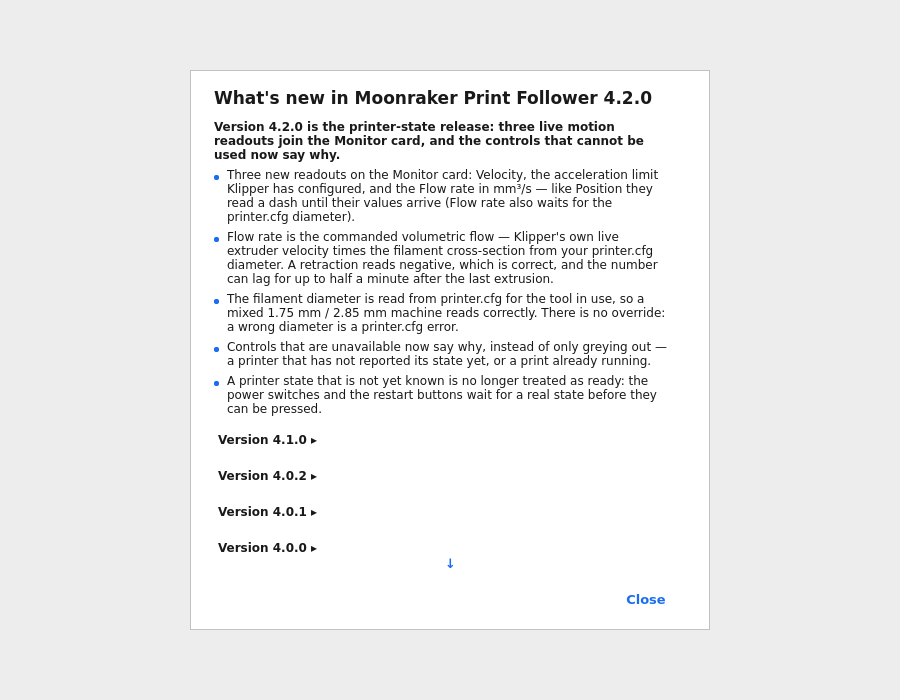
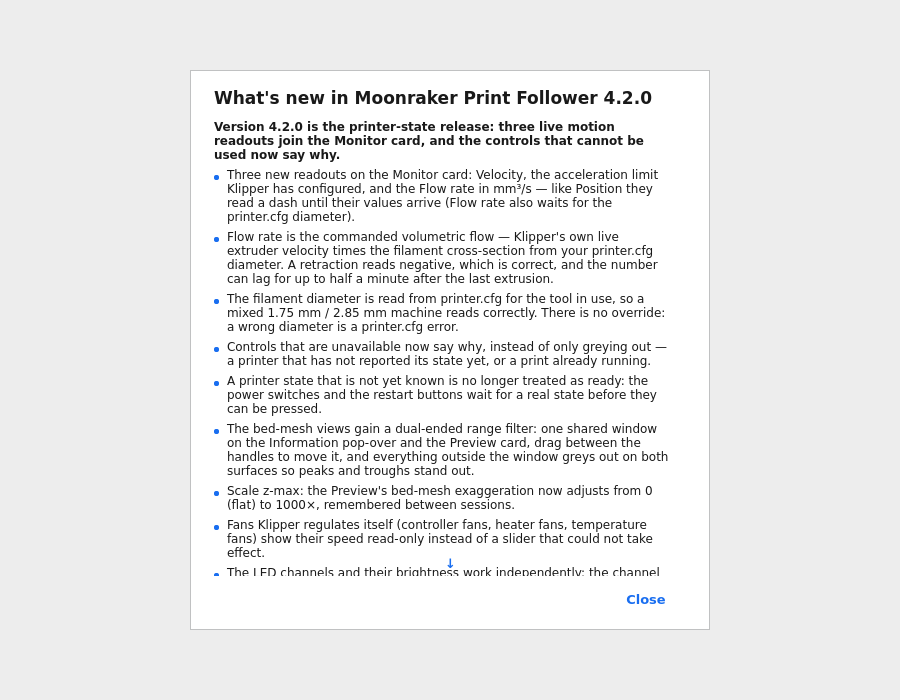
4.2.0 ship docs: the snapshot-round features in the changelog, README and what's-new, and the regenerated captures
The live-verdict rounds' features (the range filter, scale z-max, the
clamped visuals, the read-only firmware fans, the independent LED
channels and gain, the eager first connection, the consolidated
slider behaviours) join the release notes in all three surfaces, and
the canonical captures are regenerated against the final UI.

Changed region(s): [[0.2489, 0.6, 0.7467, 0.84]]

diff --git a/plugins/WhatsNew.py b/plugins/WhatsNew.py
@@ -49,6 +49,22 @@ WHATS_NEW: Tuple[dict, ...] = (
             "A printer state that is not yet known is no longer treated as "
             "ready: the power switches and the restart buttons wait for a "
             "real state before they can be pressed.",
+            "The bed-mesh views gain a dual-ended range filter: one shared "
+            "window on the Information pop-over and the Preview card, drag "
+            "between the handles to move it, and everything outside the "
+            "window greys out on both surfaces so peaks and troughs stand "
+            "out.",
+            "Scale z-max: the Preview's bed-mesh exaggeration now adjusts "
+            "from 0 (flat) to 1000×, remembered between sessions.",
+            "Fans Klipper regulates itself (controller fans, heater fans, "
+            "temperature fans) show their speed read-only instead of a "
+            "slider that could not take effect.",
+            "The LED channels and their brightness work independently: the "
+            "channel sliders hold your percentages, the brightness slider "
+            "scales the result, and nudging one never moves the other.",
+            "The first connection is eager: the printer's data appears as "
+            "soon as Moonraker answers, instead of waiting out a "
+            "quiet-period delay.",
         ),
     },
     {

diff --git a/CHANGELOG.md b/CHANGELOG.md
@@ -60,6 +60,48 @@ comes from one policy table that says why.
   lanes); the fixtures carry the motion/toolhead/configfile shapes;
   the motion ticker arm drives the rows; the policy gates are pinned
   by model assertions and the rendered `item_disabled` step.
+- **The bed-mesh range filter.** A dual-ended slider on BOTH the
+  Information pop-over and the Preview card, one shared window in
+  the model so the two stay synchronised: handle drags narrow it,
+  dragging between the handles moves the whole window, a groove
+  click jumps the nearest handle, a handle click never moves it,
+  and the arrow keys nudge. The bar desaturates outside the window
+  and the out-of-window cells grey on both surfaces (the shared
+  grey), so peaks and troughs stand out. The window follows each new
+  mesh until touched, then clamps into the new range — it is never
+  persisted, by design.
+- **Scale z-max.** The Preview's bed-mesh exaggeration adjusts from
+  0 (flat) to 1000× and is remembered between sessions; the default
+  stays the historical 20×.
+- **Klipper-faithful bed-mesh visuals.** The maps and the Preview
+  surface extend the probed bounds with Klipper's own clamp (the
+  boundary values continue — no made-up slope), the orange outline
+  marks the probed bounds on every surface, hovering the extended
+  area reads the clamped value with an orange crosshair, and the
+  map painting pre-mixes the fainter look so cell edges never
+  double-paint into a grid.
+- **Read-only firmware fans.** Fans Klipper regulates itself
+  (controller_fan, temperature_fan, heater_fan) render their speed
+  without a slider and the command lane refuses them fail-closed.
+- **Independent LED channels and brightness.** The channel sliders
+  hold your set percentages (seeded once from the first-seen
+  colour); the brightness slider is the gain, composed into the
+  send only — nudging one never moves the other, and the labels
+  hold fixed widths.
+- **Eager first connection.** Until a status has ever landed, the
+  idle floor and the failure ladder do not gate the tick, and the
+  connect transition re-broadcasts the admitted snapshot and fires
+  every lane — the printer's data appears as soon as Moonraker
+  answers.
+- **Slider behaviours consolidated.** The plugin's OutlineSlider
+  owns every interaction path (groove, handle, keyboard) through
+  two semantic signals; keyboard nudges commit like releases, the
+  fan/LED/PWM repeaters freeze during gestures, and focus re-grants
+  to the exact slider after the submit's rebuild. The ETA
+  hourglass's rotation resets through the idle state, so the
+  download glyph never inherits the frozen angle.
+- **Bumped.** The gcode deformation (vertex-style) defers to 4.3.0
+  with a Snapshot-0 mock first, per the author's ruling.
 
 ## 4.1.0
 

diff --git a/README.md b/README.md
@@ -41,6 +41,31 @@ now say why.
   merge-write that preserves the file's other keys for the next
   release, and persistence failures now report once per session
   instead of vanishing.
+- **The bed-mesh range filter** — a dual-ended slider on both the
+  Information pop-over and the Preview card, one shared window so
+  the two stay synchronised: drag between the handles to move the
+  whole window, click the groove to jump the nearest handle, and
+  everything outside the window greys out on both surfaces so peaks
+  and troughs stand out. The window follows each new mesh until
+  touched and is never persisted, by design.
+- **Scale z-max** — the Preview's bed-mesh exaggeration adjusts from
+  0 (flat) to 1000×, remembered between sessions (default 20×).
+- **Klipper-faithful bed-mesh visuals** — the extended areas use
+  Klipper's own clamp (boundary values continued, no made-up
+  slope), the orange outline marks the probed bounds, hovering the
+  extended area reads the clamped value with an orange crosshair,
+  and the map no longer shows the cell-edge grid.
+- **Read-only firmware fans** — controller, temperature and heater
+  fans show their speed without a slider (Klipper regulates them;
+  the command lane refuses them fail-closed).
+- **Independent LED channels and brightness** — the channel sliders
+  hold your percentages; the brightness slider scales the result;
+  nudging one never moves the other.
+- **Eager first connection** — the printer's data appears as soon as
+  Moonraker answers: the quiet-period floor and the failure ladder
+  never gate a session that has not received a status yet, and the
+  connect transition re-broadcasts everything known to every
+  listener.
 
 ## What changed in 4.1.0
 
